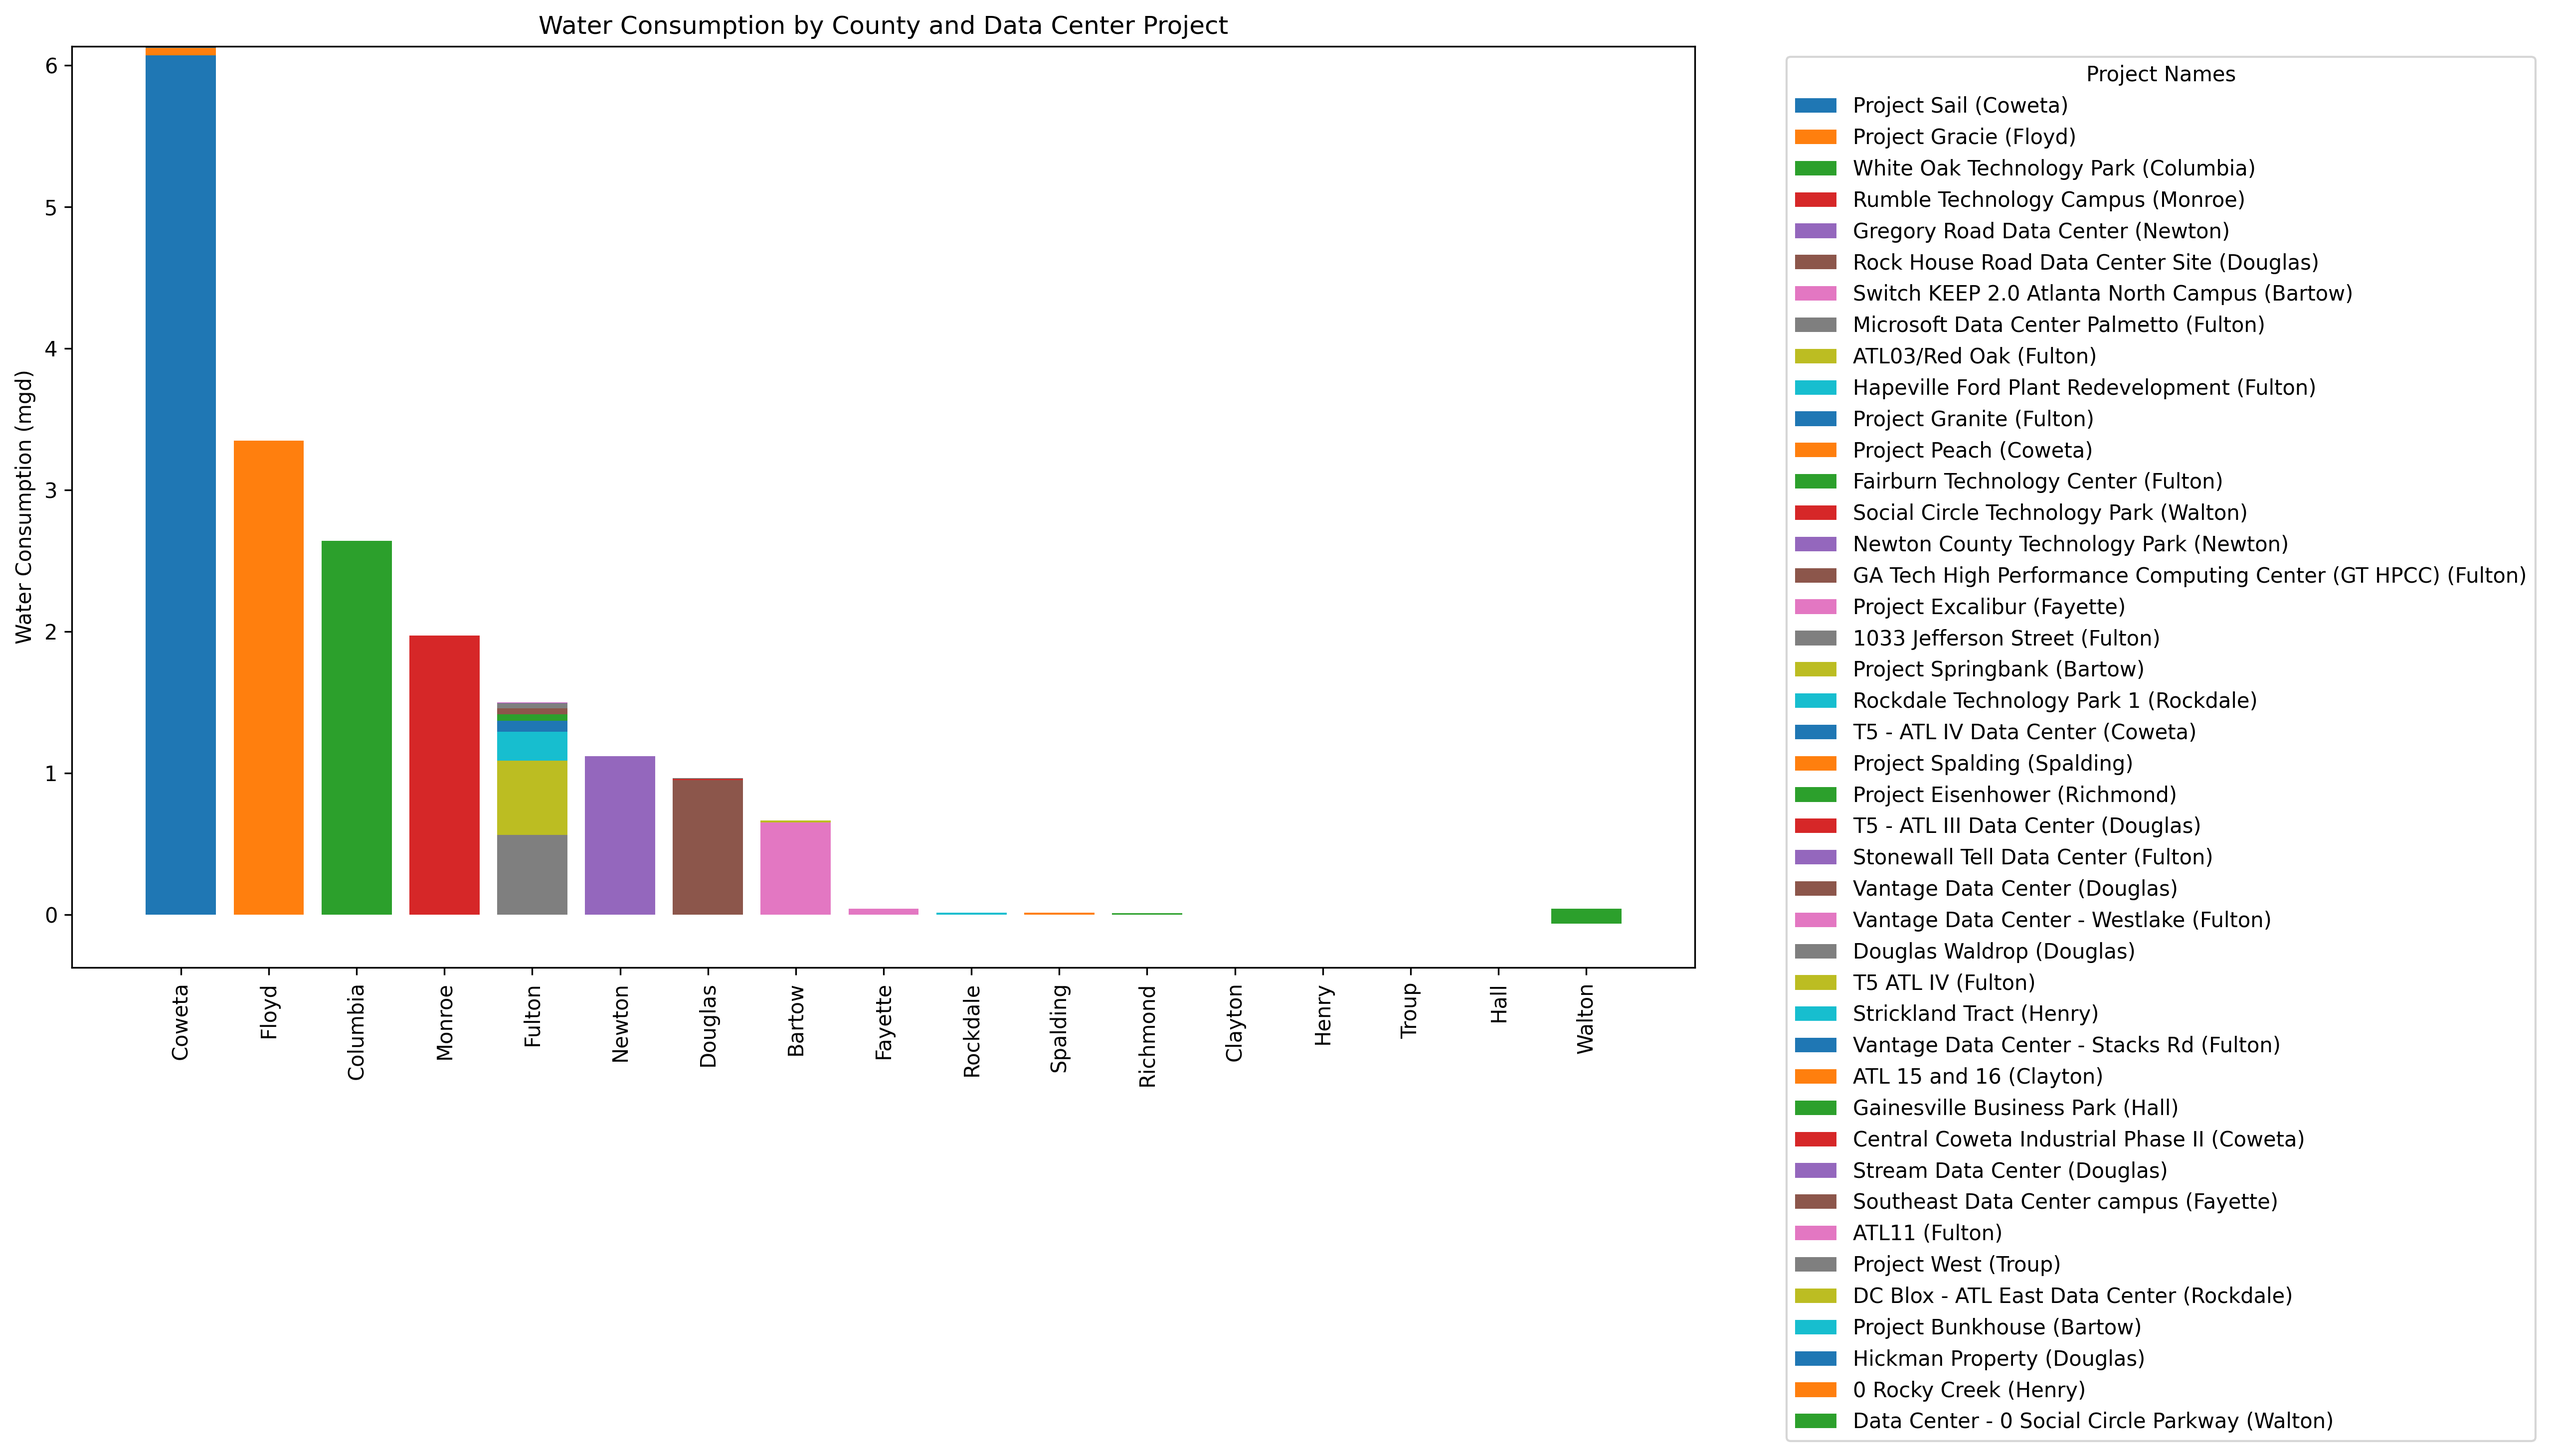
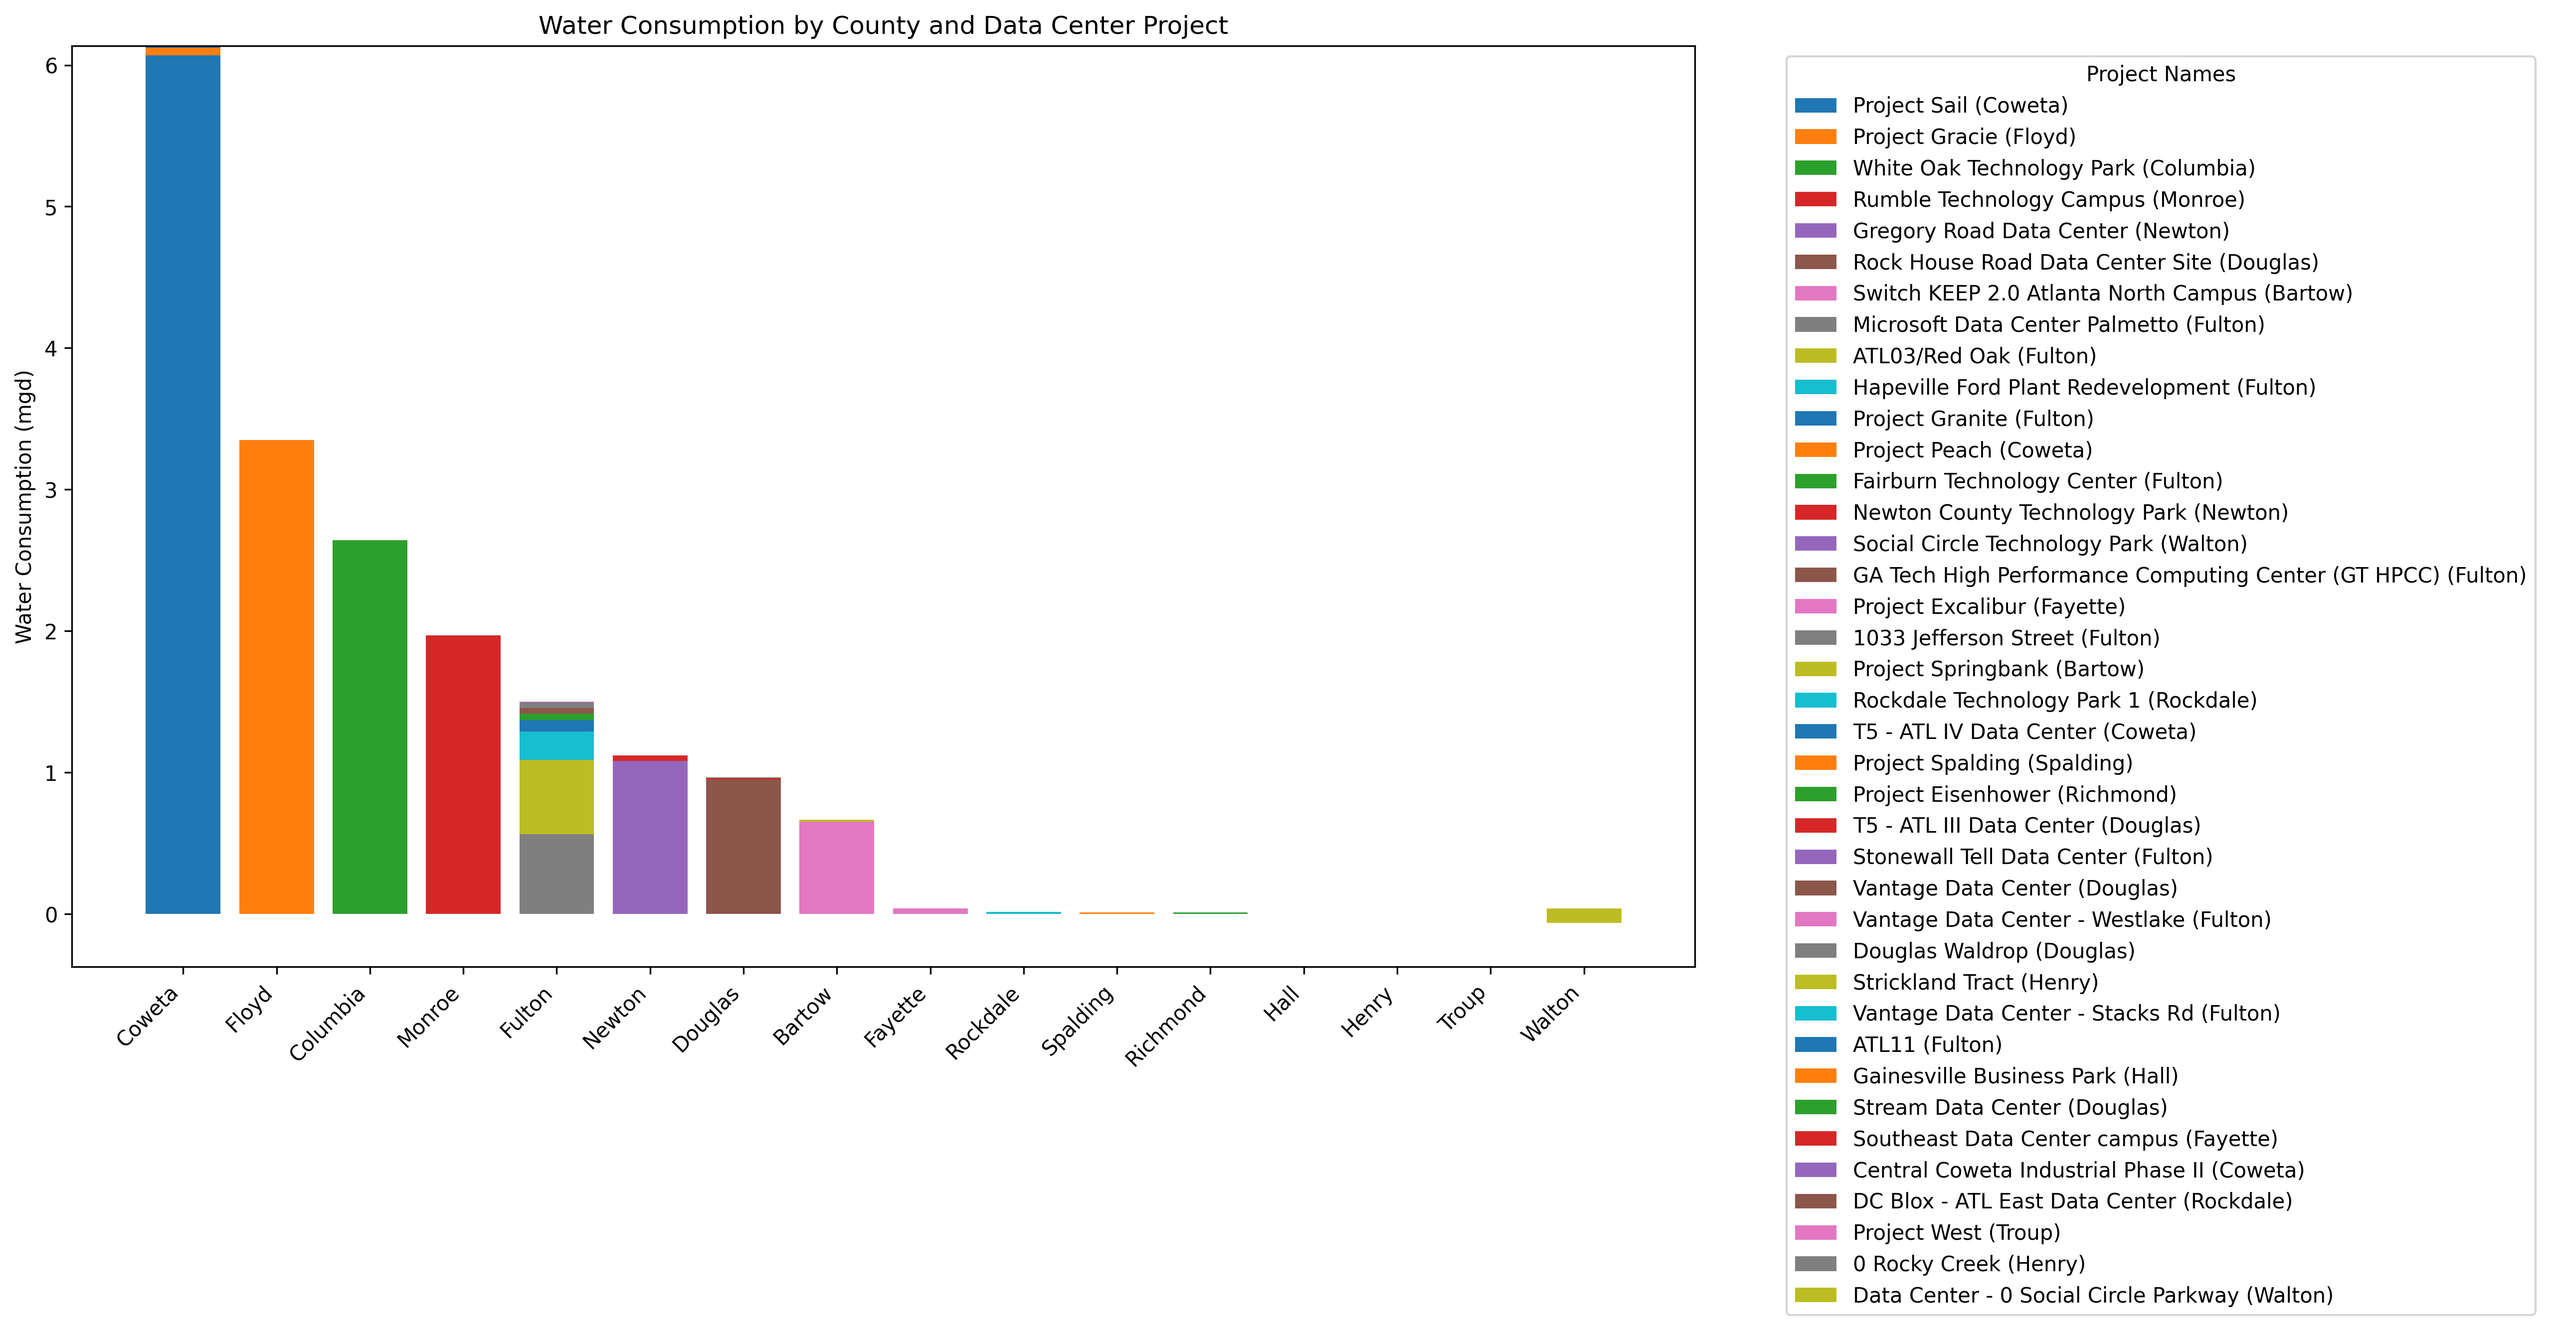
rotated the county labels on the barchart

diff --git a/Scripts/water_data_visualizations.py b/Scripts/water_data_visualizations.py
@@ -142,6 +142,8 @@ def plot_stacked_bar_by_county():
     script_dir = Path(__file__).resolve().parent
     data_center_path = script_dir.parent / "Data" / "data_center.csv"
     df = pd.read_csv(data_center_path)
+    df["Water Consumption/Loss"] = pd.to_numeric(df["Water Consumption/Loss"], errors="coerce")
+    #df["Water Consumption/Loss"] = df["Water Consumption/Loss"].fillna(0)
     df = df.dropna(subset=["Water Consumption/Loss"])
 
     # Aggregate total water consumption per county to get sorting order
@@ -182,6 +184,7 @@ def plot_stacked_bar_by_county():
     ax.set_ylabel("Water Consumption (mgd)")
     ax.set_title("Water Consumption by County and Data Center Project")
     ax.legend(title="Project Names", bbox_to_anchor=(1.05, 1), loc='upper left')
+    plt.setp(ax.xaxis.get_majorticklabels(), rotation=45, ha='right', fontsize=10)
     #plt.tight_layout()
     #plt.show()
     folder = "visualizations"
@@ -320,7 +323,7 @@ def plot_water_consumption_histogram():
         color="skyblue",
         edgecolor="black",
         alpha=0.8,
-        align="mid",               # or 'left' for left-aligned bars
+        align="mid",
         rwidth = 1.0                 # makes bars narrower, adds spacing
     )
 
@@ -336,6 +339,43 @@ def plot_water_consumption_histogram():
     folder = "visualizations"
     os.makedirs(folder, exist_ok=True)
     plt.savefig(os.path.join(folder, "data_center_water_consumption_histogram_matplotlib.png"), dpi=300)
+
+def plot_water_consumption_log_histogram():
+    script_dir = Path(__file__).resolve().parent
+    data_center_path = script_dir.parent / "Data" / "data_center.csv"
+    df = pd.read_csv(data_center_path)
+
+    # Convert the water usage column to numeric
+    df["Water Consumption/Loss"] = pd.to_numeric(df["Water Consumption/Loss"], errors="coerce")
+
+    data = df["Water Consumption/Loss"]
+    data = data[data > 0]
+
+    # Define logarithmic bins (logspace for better spacing)
+    bins = np.logspace(np.log10(data.min()), np.log10(data.max()), 30)
+
+    plt.figure(figsize=(10, 6))
+    plt.hist(
+        data,
+        bins=bins,
+        color="skyblue",
+        edgecolor="black",
+        alpha=0.8,
+        align="mid",
+        rwidth = 1.0
+    )
+
+    plt.xscale('log')  # Set X-axis to log scale
+    plt.xlabel("Water Consumption (mgd, log scale)", fontsize=12, fontweight="bold")
+    plt.ylabel("Number of Projects", fontsize=12, fontweight="bold")
+    plt.title("Histogram of Water Consumption (Logarithmic X-Axis)", fontsize=14, fontweight="bold")
+    plt.grid(True, axis='both', which='both', linestyle='--', alpha=0.3)
+
+    #plt.tight_layout()
+    folder = "visualizations"
+    os.makedirs(folder, exist_ok=True)
+    plt.savefig(os.path.join(folder, "data_center_water_consumption_log_histogram_matplotlib.png"), dpi=300)
+    
 
 def map_visualization():
     script_dir = Path(__file__).resolve().parent
@@ -509,3 +549,5 @@ plot_stacked_bar_by_county()
 plot_submission_timeline()
 
 plot_water_consumption_histogram()
+
+plot_water_consumption_log_histogram()
